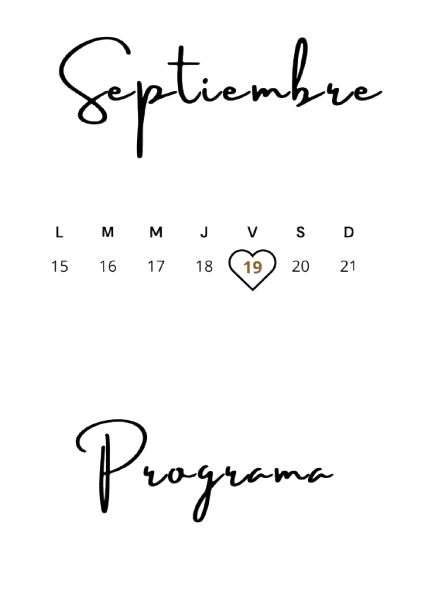
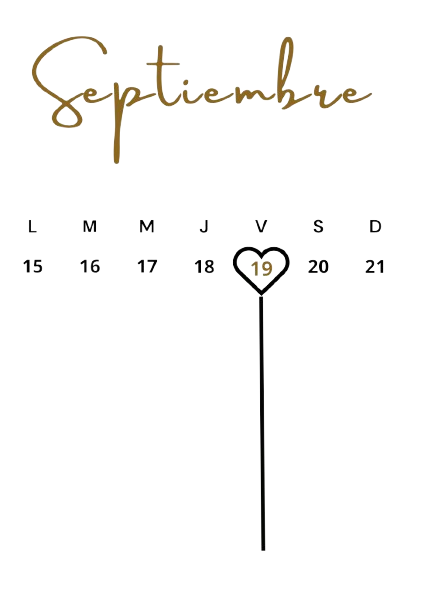
cuatro

diff --git a/style.css b/style.css
@@ -73,7 +73,7 @@
     
   
     .cr-time > span {
-        font-size: 30px;
+        font-size: 40px;
         font-weight: bold;
         color: #b88348;
         font-family: 'Julius Sans One', sans-serif;
@@ -167,8 +167,20 @@
         left: 100%;
       }
   
-
-
+.almanaque{
+    width: 85%;
+    margin-left: 10%;
+    margin-top: -8%;
+    
+  }
+  
+ 
+.programa{
+    width: 82%;
+    margin-left: 17%;
+    margin-top: -17%;
+    
+  }
     .parrafo1{
       text-align: center;
       font-family: 'Julius Sans One', sans-serif;
@@ -184,24 +196,52 @@
     margin-top: -4%;
   }
   
-  .frase{
+    .parrafo1{
+      text-align: center;
+      font-family: 'Julius Sans One', sans-serif;
+           font-size: 17px;
+           color: #1c1c1c;
+           font-weight: 800;
+           margin-left: -25%;
+           margin-top: 2%;
+    }
+  .ceremonia{
     text-align: center;
-    font-size: 28px;
-    color: #636363;
-    margin-top: 20%; 
-    font-weight: 550;
-    margin: 13%;
+    font-size: 23px;
+    color: #8c6721;
+    margin-top: -115%; 
+    font-weight: 600;
+    margin-left: -25%;
     font-family: 'Dancing Script', cursive; 
   }
-  .fiesta{
-    text-align: center;
-    font-size: 35px;
-    color: #b88d2c;
-    margin-top: 2%; 
-    font-weight: 550;
-    margin: 13%;
-    font-family: 'Dancing Script', cursive; 
-  }
+
+
+
+
+
+
+
+
+
+
+
+
+
+
+
+
+
+
+
+
+
+
+
+
+
+
+
+
   .obsequio{
     text-align: center;
     font-size: 35px;

diff --git a/index.html b/index.html
@@ -102,12 +102,17 @@
   
 <img class="dorado" src="./imagenes/linea.png" alt="">
  <br> <br><br>
-<img class="dorado" src="./imagenes/almanaque.png" alt="">
+<img class="almanaque" src="./imagenes/almanaque.png" alt="">
 
 
-<img class="dorado" src="./imagenes/programa.png" alt="">
+<img class="programa" src="./imagenes/programa.png" alt="">
    
 
+<h1 class="ceremonia">Ceremonia/Civil</h1>
+<p class="parrafo1">
+Jardín Japonés <br>
+Av.Casares y Av.del <br> Libertador. <br>
+Horario: 10:00hs</p>
 
 
   <script>
